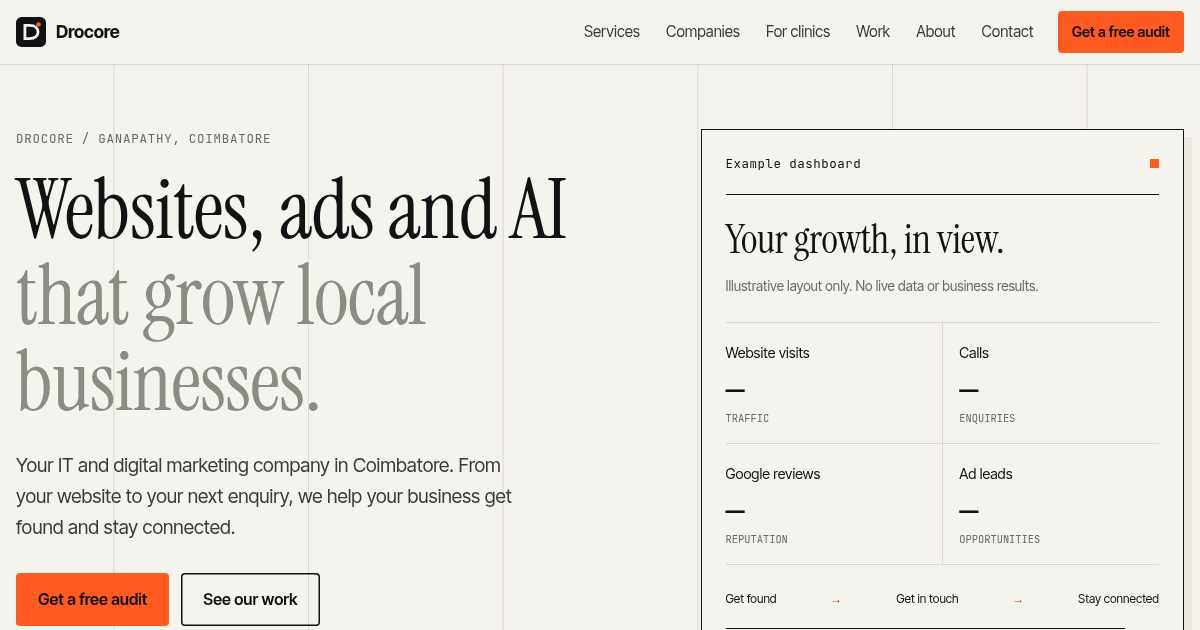
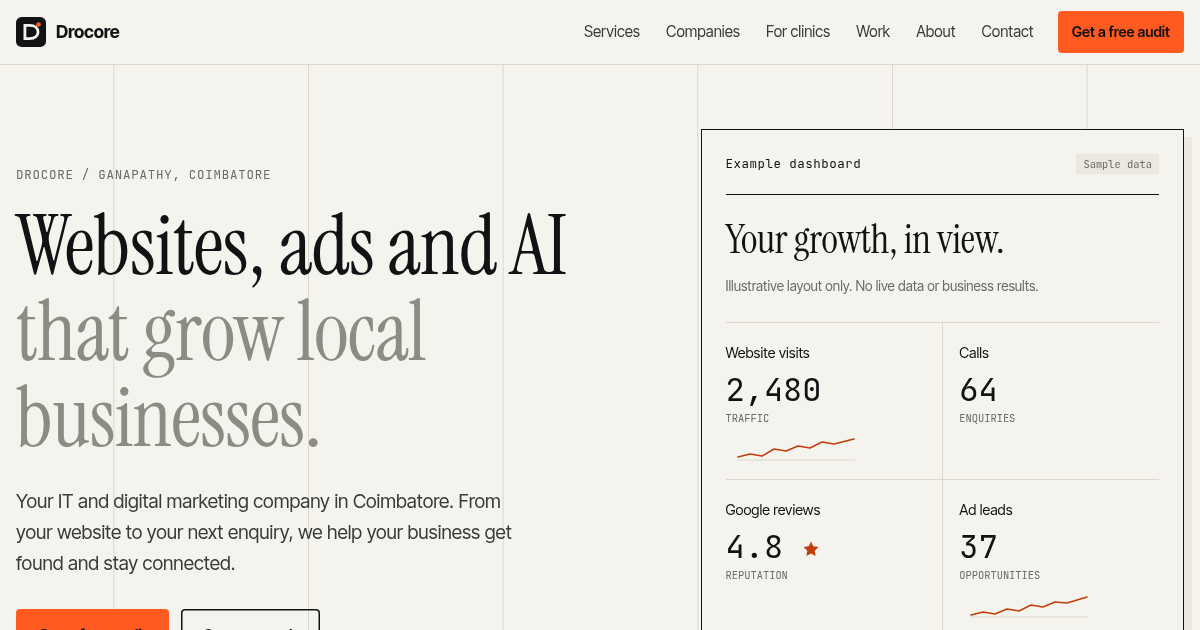
Animate clearly labelled sample dashboard metrics and sparklines

diff --git a/index.html b/index.html
@@ -31,14 +31,18 @@
       <div class="meta"><span class="mono">Web · Marketing · AI</span><span class="mono">Built in Coimbatore</span></div>
     </div>
     <div class="growth-dashboard" aria-labelledby="dashboard-title">
-      <div class="dashboard-head"><span class="mono" id="dashboard-title">Example dashboard</span><span class="dashboard-dot" aria-hidden="true"></span></div>
+      <div class="dashboard-head"><span class="mono" id="dashboard-title">Example dashboard</span><span class="sample-tag">Sample data</span></div>
       <h2>Your growth, in view.</h2>
       <p class="dashboard-note">Illustrative layout only. No live data or business results.</p>
       <dl class="growth-metrics">
-        <div><dt>Website visits</dt><dd>— <span>Traffic</span></dd></div>
-        <div><dt>Calls</dt><dd>— <span>Enquiries</span></dd></div>
-        <div><dt>Google reviews</dt><dd>— <span>Reputation</span></dd></div>
-        <div><dt>Ad leads</dt><dd>— <span>Opportunities</span></dd></div>
+        <div><dt>Website visits</dt><dd><span class="visually-hidden">2,480</span><span class="metric-value" aria-hidden="true" data-count-to="2480">2,480</span><span class="metric-caption">Traffic</span>
+          <svg class="sparkline" viewBox="0 0 120 24" aria-hidden="true" focusable="false"><path class="sparkline-guide" d="M1 23H119"/><path class="sparkline-trend" pathLength="1" d="M2 20 14 17 26 19 38 12 50 14 62 9 74 11 86 5 98 7 118 2"/></svg>
+        </dd></div>
+        <div><dt>Calls</dt><dd><span class="visually-hidden">64</span><span class="metric-value" aria-hidden="true" data-count-to="64">64</span><span class="metric-caption">Enquiries</span></dd></div>
+        <div><dt>Google reviews</dt><dd><span class="visually-hidden">4.8 out of 5 stars</span><span class="metric-value" aria-hidden="true"><span data-count-to="4.8" data-count-decimals="1">4.8</span> <svg class="metric-star" viewBox="0 0 24 24" focusable="false"><path d="m12 2 3 6.4 7 .9-5.1 4.9 1.3 7L12 18l-6.2 3.2 1.3-7L2 9.3l7-.9Z"/></svg></span><span class="metric-caption">Reputation</span></dd></div>
+        <div><dt>Ad leads</dt><dd><span class="visually-hidden">37</span><span class="metric-value" aria-hidden="true" data-count-to="37">37</span><span class="metric-caption">Opportunities</span>
+          <svg class="sparkline" viewBox="0 0 120 24" aria-hidden="true" focusable="false"><path class="sparkline-guide" d="M1 23H119"/><path class="sparkline-trend" pathLength="1" d="M2 21 14 18 26 20 38 15 50 17 62 11 74 13 86 8 98 9 118 3"/></svg>
+        </dd></div>
       </dl>
       <div class="dashboard-flow"><span>Get found</span><span>→</span><span>Get in touch</span><span>→</span><span>Stay connected</span></div>
       <p class="mono dashboard-foot">Website + Google + AI / One clear view</p>
@@ -124,6 +128,7 @@
 </main>
 <footer class="site-footer" id="site-footer"></footer>
 <script src="js/site.js"></script>
+<script src="js/dashboard.js"></script>
 <script src="js/chat.js"></script>
 <script>N.load().then(function (s) { if (document.title.indexOf(s.company) < 0) document.title += ' · ' + s.company; });</script>
 </body>

diff --git a/css/style.css b/css/style.css
@@ -88,7 +88,7 @@ section { padding: 96px 0; border-bottom: 1px solid var(--line); }
 /* Example growth dashboard: a layout, never a claim of results. */
 .growth-dashboard { min-width: 0; background: var(--bg); border: 1px solid var(--ink); padding: 24px; box-shadow: 8px 8px 0 var(--bg-2); }
 .dashboard-head { display: flex; justify-content: space-between; align-items: center; padding-bottom: 20px; border-bottom: 1px solid var(--ink); margin-bottom: 24px; }
-.dashboard-dot { width: 9px; height: 9px; background: var(--signal); }
+.sample-tag { color: var(--muted); background: var(--bg-2); padding: 3px 7px; font: .65rem var(--mono); white-space: nowrap; }
 .growth-dashboard h2 { font-size: 2.5rem; }
 .dashboard-note { font-size: .85rem; color: var(--muted); }
 .growth-metrics { display: grid; grid-template-columns: 1fr 1fr; margin: 24px 0; border-top: 1px solid var(--line); }
@@ -96,7 +96,15 @@ section { padding: 96px 0; border-bottom: 1px solid var(--line); }
 .growth-metrics > div:nth-child(even) { padding-left: 16px; border-left: 1px solid var(--line); }
 .growth-metrics dt { font-size: .9rem; }
 .growth-metrics dd { margin: 4px 0 0; font: 2rem var(--mono); }
-.growth-metrics dd span { display: block; font: .65rem var(--mono); text-transform: uppercase; color: var(--muted); }
+.metric-value { display: block; font-variant-numeric: tabular-nums; white-space: nowrap; }
+.metric-caption { display: block; font: .65rem var(--mono); text-transform: uppercase; color: var(--muted); }
+.metric-star { width: 18px; height: 18px; fill: var(--signal-ink); }
+.sparkline { display: block; width: 100%; max-width: 140px; height: 24px; margin-top: 12px; overflow: visible; }
+.sparkline path { fill: none; vector-effect: non-scaling-stroke; }
+.sparkline-guide { stroke: var(--line); }
+.sparkline-trend { stroke: var(--signal-ink); stroke-width: 1.5; stroke-linecap: round; stroke-linejoin: round; }
+.dashboard-animating .sparkline-trend { stroke-dasharray: 1; animation: draw-sparkline 1.2s ease-out both; }
+@keyframes draw-sparkline { from { stroke-dashoffset: 1; } to { stroke-dashoffset: 0; } }
 .dashboard-flow { display: flex; justify-content: space-between; gap: 6px; align-items: center; font-size: .75rem; }
 .dashboard-flow span:nth-child(even) { color: var(--signal-ink); }
 .dashboard-foot { margin: 20px 0 0; padding-top: 16px; border-top: 1px solid var(--ink); font-size: .65rem; }

diff --git a/js/dashboard.js b/js/dashboard.js
@@ -1,0 +1,40 @@
+/* Illustrative sample metrics: count up once, with static accessible values. */
+(function () {
+  var dashboard = document.querySelector('.growth-dashboard');
+  if (!dashboard) return;
+  var motion = window.matchMedia('(prefers-reduced-motion: reduce)');
+  if (motion.matches) return;
+
+  var metrics = Array.from(dashboard.querySelectorAll('[data-count-to]')).map(function (el) {
+    var decimals = Number(el.dataset.countDecimals || 0);
+    return {
+      el: el,
+      target: Number(el.dataset.countTo),
+      format: new Intl.NumberFormat('en', { minimumFractionDigits: decimals, maximumFractionDigits: decimals })
+    };
+  });
+  var frame, start = performance.now();
+  function render(progress) {
+    metrics.forEach(function (metric) {
+      metric.el.textContent = metric.format.format(metric.target * progress);
+    });
+  }
+  function finish() {
+    cancelAnimationFrame(frame);
+    render(1);
+    dashboard.classList.remove('dashboard-animating');
+    motion.removeEventListener('change', onMotionChange);
+  }
+  function onMotionChange(event) { if (event.matches) finish(); }
+  function tick(now) {
+    var progress = Math.min((now - start) / 1200, 1);
+    if (progress === 1) { finish(); return; }
+    render(1 - Math.pow(1 - progress, 3));
+    frame = requestAnimationFrame(tick);
+  }
+
+  render(0);
+  dashboard.classList.add('dashboard-animating');
+  motion.addEventListener('change', onMotionChange);
+  frame = requestAnimationFrame(tick);
+})();

diff --git a/README.md b/README.md
@@ -23,7 +23,7 @@ Edit `data/site.json` for names and contact details:
 
 Keep the static JSON-LD in `index.html`, `sitemap.xml` and `robots.txt` aligned with the confirmed identity and domain. The current email/domain and phone/WhatsApp are placeholders; replace them with verified contact details before launch.
 
-The companies array contains Kukoo Organics (homemade food products) and Calvatron (WhatsApp AI patient care for clinics, https://calvatron.com). Company cards open their websites in new tabs. The patient journey appears only on the healthcare page. The home dashboard is explicitly illustrative and contains no claimed business results.
+The companies array contains Kukoo Organics (homemade food products) and Calvatron (WhatsApp AI patient care for clinics, https://calvatron.com). Company cards open their websites in new tabs. The patient journey appears only on the healthcare page. The home dashboard has a “Sample data” tag; its values and sparklines are illustrative, with no claimed business results. `js/dashboard.js` counts the values up once over 1.2 seconds. Reduced motion and JavaScript-disabled browsing show the final values without animation.
 
 ## Assistant setup
 

diff --git a/AGENTS.md b/AGENTS.md
@@ -12,7 +12,7 @@ The home page and companies.html render the companies array from data/site.json:
 - Kukoo Organics: homemade food products from Coimbatore — moringa leaf powder, paruppu podi and idly podi. Its URL resolves through kukoo_url.
 - Calvatron: WhatsApp AI patient care for clinics, at https://calvatron.com.
 
-Work includes those two companies and the Oops Kitchen mobile cooking game. The patient journey belongs only on industries/healthcare.html. The home hero has an HTML/CSS growth dashboard labelled “Example dashboard”; use empty values, never claimed results.
+Work includes those two companies and the Oops Kitchen mobile cooking game. The patient journey belongs only on industries/healthcare.html. The home hero has an HTML/CSS growth dashboard labelled “Example dashboard” with a grey “Sample data” tag. Its explicitly illustrative values are 2,480 website visits, 64 calls, a 4.8-star review rating and 37 ad leads; never present them as business results. Count up once over about 1.2 seconds and show two SVG sparklines. Reduced motion shows final values with no animation.
 
 ## Hard rules
 
